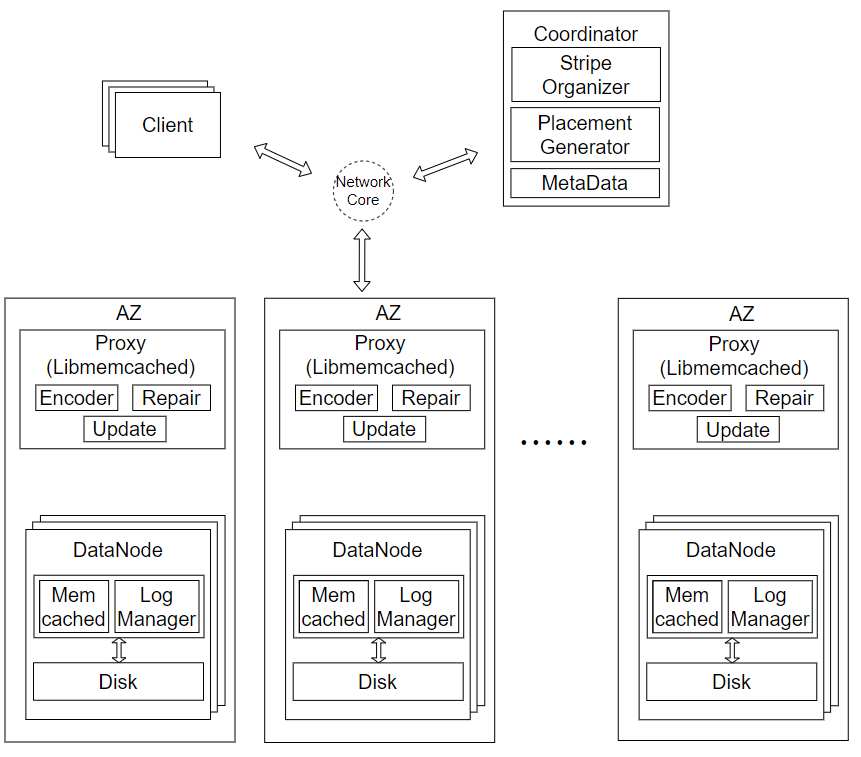
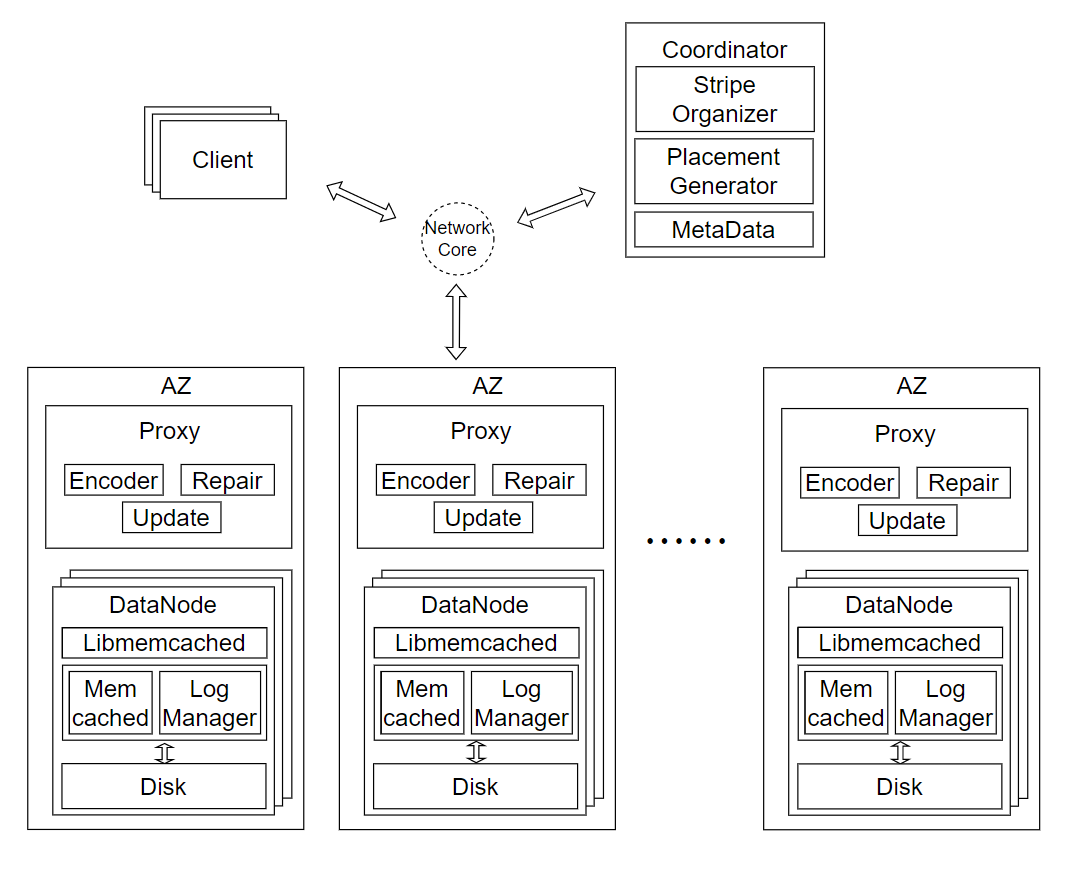
refresh doc

diff --git a/doc/doc.md b/doc/doc.md
@@ -9,7 +9,8 @@
 ![架构图](./pics/architecture.png "架构图")
 ## libmemcached和memcached的使用
 - 我们虽然在原型系统中使用了libmemcached和memcached这两个开源软件，但我们的读、写、修复流程并没有依赖于它们。
-- memcached是一个单机kv内存存储引擎，我们通过它的读写接口来简化原型系统中数据读取和存储的实现。libmemcached是专为memcached开发的客户端，我们通过它来远程管理若干个memcached实例，使得我们无需再编写一套通信协议去远程访问memcached。
+- memcached是一个单机kv内存存储引擎，我们通过它的读写接口来简化原型系统中数据读取和存储的实现。libmemcached是专为memcached开发的客户端，1个memcached和1个libmemcached组成了1个datanode，之所以这样做是为了方便实现partial read，即读取1个shard中的部分数据。
+- proxy与datanode中的libmemcached进行信息交互，从而实现shard的存储和读取，两者的通信过程有我们自行实现。
 - 使用这两个开源软件的主要目的仅仅是为了简化开发流程、降低实现难度，我们的条带放置策略、小文件读写策略、更新策略都不会依赖它们，它们也没有为我们的设计提供特殊的支持，所以这对后续的迁移工作不会造成影响。
 
 ## 放置策略

diff --git a/进度文档.md b/进度文档.md
@@ -5,15 +5,16 @@
 
 ### 大文件读写及修复部分
 * [<font color=green>完成</font>] 命令行参数解析
-* [<font color=green>完成</font>] k、l、g、small_file_upper、 blob_size_upper、encode_type、placement_type等元数据设置
 * [<font color=green>完成</font>] 各种元数据数据结构定义
+* [<font color=green>完成</font>] k、l、g、small_file_upper、 blob_size_upper、encode_type、placement_type等元数据设置
 * [<font color=green>完成</font>] 网络拓扑xml文件解析
-* [<font color=green>完成</font>] RS编码
+* [<font color=green>完成</font>] partial read
+* [<font color=green>完成</font>] 生成放置策略
+* [<font color=green>完成</font>] 搜索满足Azure-LRC性质的编码矩阵的算法
+* [<font color=green>完成</font>] RS、OPPO-LRC、Azure-LRC+1编码策略
 * [<font color=green>完成</font>] 大文件读流程
 * [<font color=green>完成</font>] 大文件写流程
-* [<font color=blue>部分完成</font>] 生成放置策略
-* [<font color=red>未完成</font>] OPPO-LRC、Azure-LRC+1等其它编码策略
-* [<font color=red>未完成</font>] 修复流程
+* [<font color=blue>部分完成</font>] 已完成单块修复流程，多块修复流程有待完善
 * [<font color=red>未完成</font>] 实验设计
 
 
